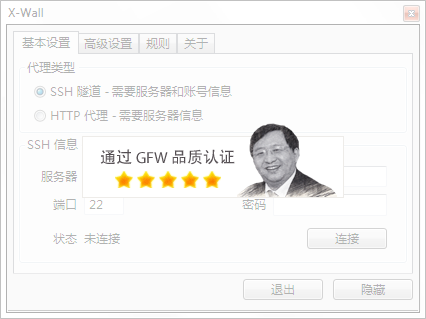
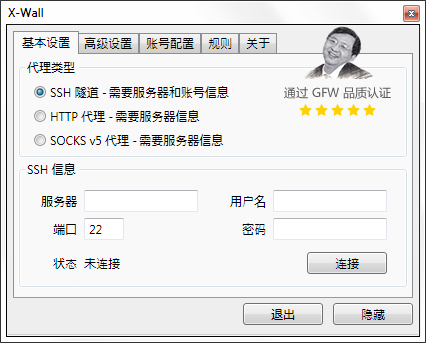
update

Changed region(s): [[0.0, 0.0, 1.0, 1.0], [0.1221, 0.7335, 0.3052, 0.79]]

diff --git a/zh-CN/index.html b/zh-CN/index.html
@@ -72,7 +72,7 @@
             <p>X-Wall 是一个整合了 <a href="http://www.privoxy.org/">Privoxy</a> 和 Plink (Plink 是 <a href="http://www.chiark.greenend.org.uk/%7Esgtatham/putty/" target="_blank">PuTTy</a> 的一部分) 的小工具, 提供给大家一个更简单方便的 "科学上网 (翻墙)" 方案.</p>
             <p><em>需要特别说明的是</em> X-Wall 是免费的, 但 SSH 不一定, 且通常不是免费的. 如果说你特别在意一个月几块钱或者一年几十块钱的费用, 也可以找相对不稳定的免费账号或者其他翻墙方案.</p>
             <p><em>友情提示</em> 打开 X-Wall 之前, 请先关闭其他相关工具, 切忌交叉使用两种代理, 除非你知道并且能控制产生的影响. 原先配置了 Proxy Switchy (Chrome) 或者 AutoProxy (Firefox) 的用户, 请将插件禁用.</p>
-            <p><img alt="X-Wall 屏幕截图" src="./images/1.png" style="width: 426px; height: 319px;" /></p>
+            <p><img alt="X-Wall 屏幕截图" src="./images/1.png" style="width: 426px; height: 343px;" /></p>
             <h4>系统要求</h4>
             <p>Microsoft Windows 2000/XP/7/8<br>
             Microsoft .NET Framework 3.5 SP1 (Windows 7 上已经预装)</p>
@@ -202,7 +202,7 @@
         </div>
     </div>
     <div id="footer">
-        <div>架设在 <a href="https://github.com/" target="_blank">Github</a></div>
+        <div>架设在 <a href="https://pages.github.com/" target="_blank">Github Pages</a></div>
         <div>©2012 <a href="http://vilic.info/" target="_blank">VILIC VANE</a></div>
     </div>
 </div>

diff --git a/en-US/index.html b/en-US/index.html
@@ -65,7 +65,7 @@
             <h3>Introduction</h3>
             <h4>What is X-Wall?</h4>
             <p>X-Wall is a small tool wraps together <a href="http://www.privoxy.org/">Privoxy</a> and Plink (which is part of <a href="http://www.chiark.greenend.org.uk/%7Esgtatham/putty/" target="_blank">PuTTy</a>) to provide people an easier way to X (cross) the Great Firewall of China.</p>
-            <p><img alt="X-Wall Screenshot" src="./images/1.png" style="width: 426px; height: 319px;" /></p>
+            <p><img alt="X-Wall Screenshot" src="./images/1.png" style="width: 426px; height: 343px;" /></p>
             <h4>System Requirements</h4>
             <p>Microsoft Windows 2000/XP/7/8<br>
             Microsoft .NET Framework 3.5 SP1 (pre-installed on Windows 7)</p>
@@ -111,8 +111,8 @@
         </div>
     </div>
     <div id="footer">
-        <div>Proudly hosted by <a href="https://github.com/" target="_blank">Github</a></div>
-        <div>©2012 <a href="http://vilic.info/" target="_blank">VILIC VANE</a></div>
+        <div>Proudly hosted by <a href="https://pages.github.com/" target="_blank">Github Pages</a></div>
+        <div>©2013 <a href="http://vilic.info/" target="_blank">VILIC VANE</a></div>
     </div>
 </div>
 </body>
